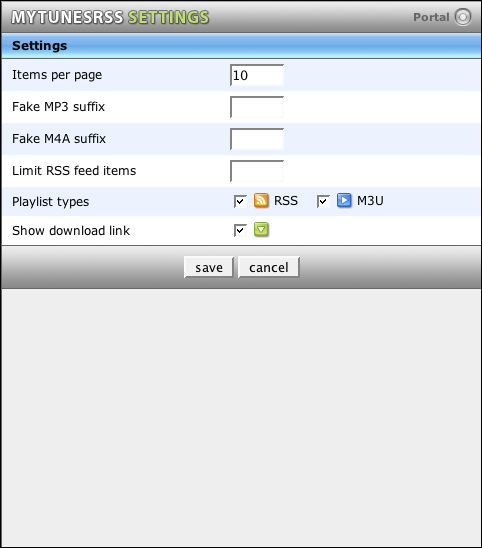
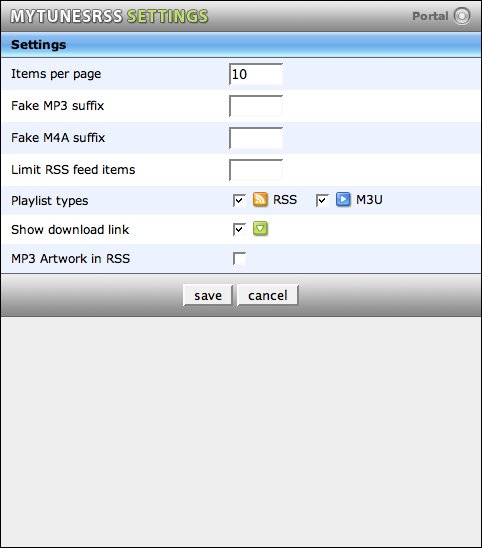
option for mp3 artwork in rss feeds
git-svn-id: svn://127.0.0.1/MyTunesRss/trunk@1260 6cd82e91-2702-0410-863d-86aa3370aca5

Changed region(s): [[0.0, 0.1861, 1.0, 0.5894], [0.0, 0.0, 0.9959, 0.3102], [0.6535, 0.3412, 0.8091, 0.4033]]

diff --git a/etc/documentation/docs/de/web_settings.html b/etc/documentation/docs/de/web_settings.html
@@ -69,9 +69,10 @@
            der eingestellten Größe unterteilt angeboten. Die Originallisten werden in jedem Fall zusätzlich angezeigt.</p>
 
         <p>Als nächste Option können Sie die Playlisttypen wählen, die in der Webapplikation erscheinen sollen. Sie müssen mindestens einen Typ
-           auswählen. Auf der Playstation Portable beispielsweise können Sie die M3U Listen deaktivieren, da sie sowieso nicht unterstützt werden.</p>
-
-        <p>Zuletzt können Sie auswählen, ob sie deb Download-Link für einzelne Titel anzeigen oder ausblenden möchten.</p>
+           auswählen. Auf der Playstation Portable beispielsweise können Sie die M3U Listen deaktivieren, da sie sowieso nicht unterstützt werden. Sie
+           können auch auswählen, ob sie deb Download-Link anzeigen oder ausblenden möchten. Wenn nur weniger Ihrer Titel Grafiken in den MP3 Dateien
+           enthalten, kann die Suche nach der ersten Grafik bei großen Feeds eine Weile dauern. Für diesen Fall können Sie die Nutzung von Grafiken
+           aus MP3 Dateien komplett abschalten.</p>
 
         <img src="images/web_settings.png" width="463" alt="Login" />
 

diff --git a/etc/documentation/docs/en/web_settings.html b/etc/documentation/docs/en/web_settings.html
@@ -63,9 +63,9 @@
            multiple splitted lists in addition to the original list.</p>
 
         <p>The next option is the playlist type choice. You can select to have only the RSS icons, only the M3U icons or both. This makes sense if a
-           client only supports one of them or you are only working with one of them.</p>
-
-        <p>Finally you can select to either show or hide the download link for individual tracks.</p>
+           client only supports one of them or you are only working with one of them. You can also select to either show or hide the download link. If
+           only a few of your tracks contain valid artwork, finding the first one can take some time for large playlists, so you can choose to turn of
+           the usage of MP3 artwork for RSS feeds here.</p>
 
         <img src="images/web_settings.png" width="463" alt="Login" />
 

diff --git a/etc/documentation/docs/de/versions.html b/etc/documentation/docs/de/versions.html
@@ -53,6 +53,7 @@
         <h2>Version 2.2.2</h2>
         <span class="date">8. August 2006</span>
         <ul>
+        <li>Option zum Deaktivieren von MP3 Grafiken in RSS Feeds</li>
         <li>Stabilität beim Auslesen von Grafiken aus MP3s verbessert</li>
         </ul>
 

diff --git a/etc/documentation/docs/en/versions.html b/etc/documentation/docs/en/versions.html
@@ -53,6 +53,7 @@
         <h2>Version 2.2.2</h2>
         <span class="date">August 8, 2006</span>
         <ul>
+        <li>Option to disable MP3 artwork in RSS feeds</li>
         <li>Stability improvements for MP3 artwork support</li>
         </ul>
 
